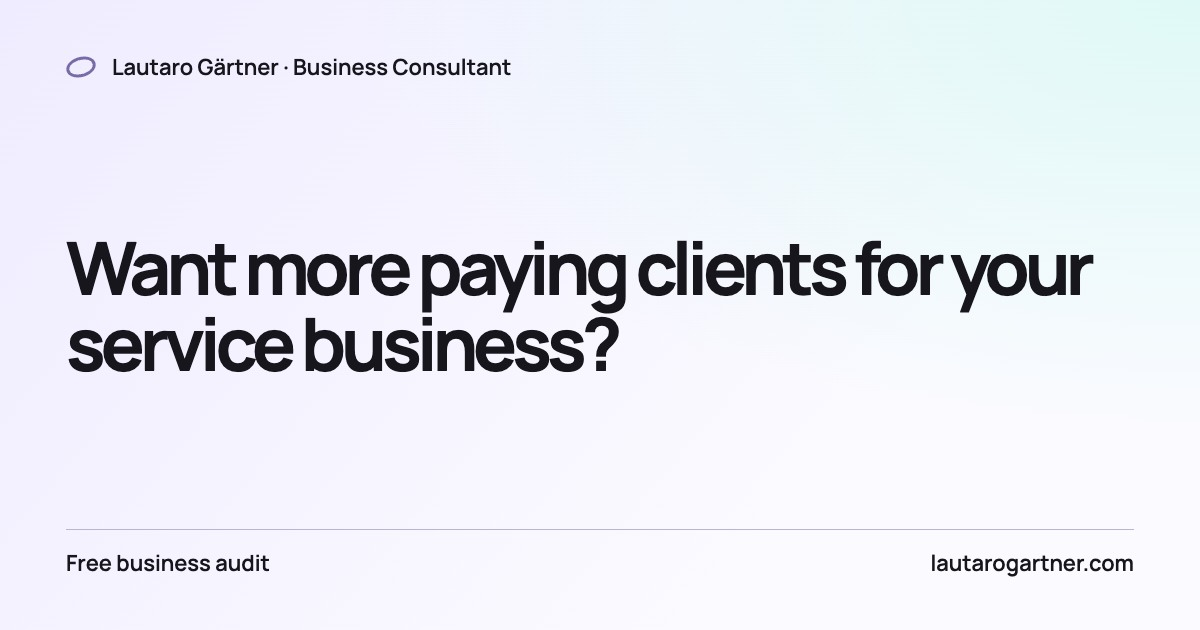
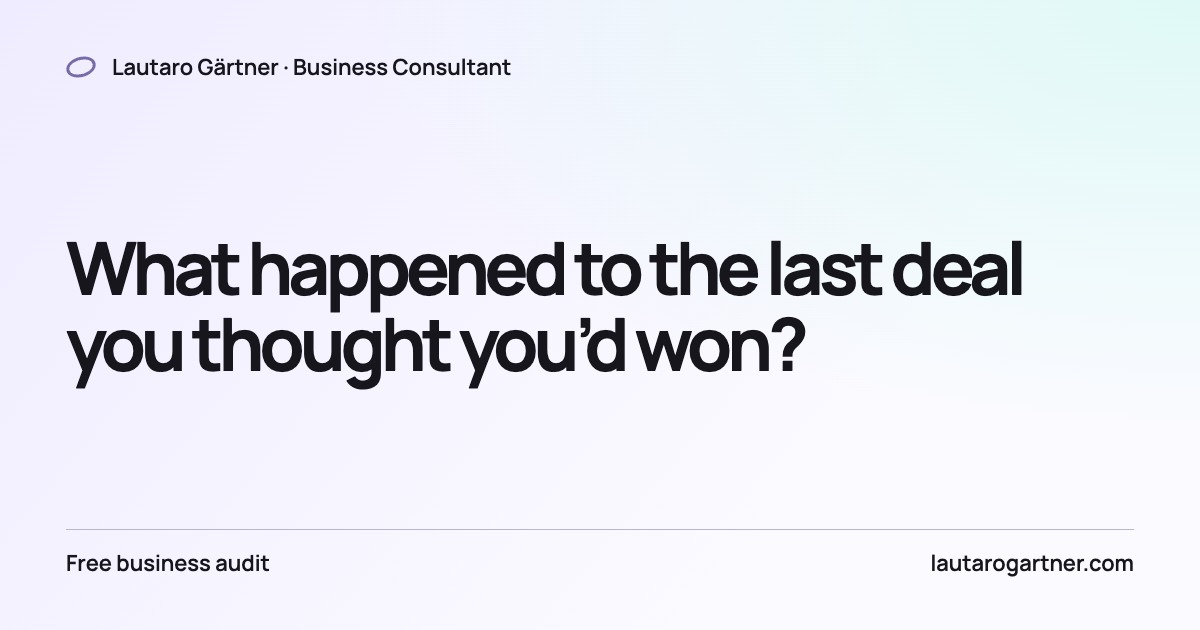
Float form menus, detect phone country, and broaden business copy

Changed region(s): [[0.0617, 0.3619, 0.925, 0.6333]]

diff --git a/public/application.js b/public/application.js
@@ -10,67 +10,150 @@
   }
   const fbclid = params.get('fbclid');
   const click = fbclid && /^[\w-]{1,400}$/.test(fbclid) ? 'fb.1.' + Date.now() + '.' + fbclid : undefined;
+  const country = form.elements.namedItem('phoneCountry');
+  const phone = form.elements.namedItem('tel');
+  const regionOptions = new Map([...form.querySelectorAll('#region-options [role=option]')].map(
+    option => [option.dataset.value, option]
+  ));
+  const countryToggle = form.querySelector('[data-country-toggle]');
+  const prefix = form.querySelector('[data-dial-code]');
+  let countryChosen = false;
+
+  function setCountry(code) {
+    const option = regionOptions.get(code);
+    if (!option) return;
+    regionOptions.get(country.value)?.setAttribute('aria-selected', 'false');
+    option.setAttribute('aria-selected', 'true');
+    country.value = code;
+    prefix.textContent = '+' + option.dataset.code;
+    countryToggle.querySelector('[data-flag]').textContent = option.firstElementChild.textContent;
+    countryToggle.setAttribute('aria-label', 'Change phone country, ' + option.dataset.name + ' +' + option.dataset.code);
+    validatePhone();
+  }
+
+  function browserCountry() {
+    // The time zone is more useful than the interface language when they differ.
+    const zone = Intl.DateTimeFormat().resolvedOptions().timeZone;
+    try {
+      // WebKit can return America/Argentina/Cordoba while its region list
+      // exposes America/Cordoba. Use the city only when it identifies one region.
+      const cityKey = name => {
+        const parts = name.split('/');
+        return parts[0] + '/' + parts.at(-1);
+      };
+      const alternate = [];
+      for (const code of regionOptions.keys()) {
+        const locale = new Intl.Locale('und-' + code);
+        const zones = locale.getTimeZones?.() ?? locale.timeZones ?? [];
+        if (zones.includes(zone)) return code;
+        if (zone.includes('/') && zones.some(name => cityKey(name) === cityKey(zone))) alternate.push(code);
+      }
+      if (alternate.length === 1) return alternate[0];
+      return new Intl.Locale(navigator.language).region;
+    } catch { return undefined; }
+  }
+
   for (const picker of form.querySelectorAll('[data-picker]')) {
     const input = picker.querySelector('[role=combobox]');
     const stored = picker.querySelector('input[type=hidden]');
-    const list = picker.querySelector('[role=listbox]');
+    const menu = picker.querySelector('[data-menu]');
+    const list = menu.querySelector('[role=listbox]');
     const options = [...list.children];
-    const empty = picker.querySelector('[data-no-match]');
+    const empty = menu.querySelector('[data-no-match]');
+    const region = stored === country;
+    const trigger = region ? countryToggle : picker.querySelector('[data-toggle]');
+    const anchor = region ? picker.parentElement : picker;
     let active = null;
     const matches = () => options.filter(option => !option.hidden);
+
+    function position() {
+      if (menu.hidden) return;
+      const box = anchor.getBoundingClientRect();
+      const viewport = window.visualViewport;
+      const top = viewport?.offsetTop ?? 0;
+      const height = viewport?.height ?? innerHeight;
+      const below = top + height - box.bottom - 8;
+      const above = box.top - top - 8;
+      const up = below < 200 && above > below;
+      menu.classList.toggle('opens-up', up);
+      menu.style.maxHeight = Math.max(0, Math.min(270, up ? above : below)) + 'px';
+    }
     function highlight(option) {
       active?.removeAttribute('data-active');
       active = option;
-      if (active) {
-        active.dataset.active = '';
-        input.setAttribute('aria-activedescendant',active.id);
-        active.scrollIntoView({block:'nearest'});
-      } else input.removeAttribute('aria-activedescendant');
+      if (!active) { input.removeAttribute('aria-activedescendant'); return; }
+      active.dataset.active = '';
+      input.setAttribute('aria-activedescendant', active.id);
+      const row = active.getBoundingClientRect(), bounds = list.getBoundingClientRect();
+      if (row.bottom > bounds.bottom) list.scrollTop += row.bottom - bounds.bottom;
+      else if (row.top < bounds.top) list.scrollTop -= bounds.top - row.top;
     }
     function open(filter) {
+      const wasClosed = menu.hidden;
       const query = filter ? input.value.trim().toLowerCase().replace(/[$,]/g,'') : '';
-      for (const option of options) option.hidden = !option.textContent.toLowerCase().replace(/[$,]/g,'').includes(query);
-      const visible = matches();
-      list.hidden = !visible.length;
-      empty.hidden = Boolean(visible.length);
-      input.setAttribute('aria-expanded',String(visible.length>0));
+      for (const option of options) option.hidden = !option.textContent.toLowerCase().replace(/[$,]/g,'').includes(query) && !(region && option.dataset.value.toLowerCase() === query);
+      const any = matches().length > 0;
+      list.hidden = !any;
+      empty.hidden = any;
+      menu.hidden = false;
+      input.setAttribute('aria-expanded','true');
+      if (region) trigger.setAttribute('aria-expanded','true');
+      position();
       highlight(null);
+      list.scrollTop = 0;
+      if (region && wasClosed) {
+        input.focus({preventScroll:true});
+        highlight(regionOptions.get(stored.value));
+      }
     }
     function close() {
-      list.hidden = true;
-      empty.hidden = true;
+      menu.hidden = true;
       input.setAttribute('aria-expanded','false');
+      if (region) trigger.setAttribute('aria-expanded','false');
       highlight(null);
     }
     function select(option) {
-      input.value = option.textContent;
-      stored.value = option.dataset.value;
-      for (const item of options) item.setAttribute('aria-selected',String(item===option));
-      input.setCustomValidity('');
-      close();
+      if (region) {
+        countryChosen = true;
+        setCountry(option.dataset.value);
+        close();
+        trigger.focus({preventScroll:true});
+      } else {
+        input.value = option.textContent;
+        stored.value = option.dataset.value;
+        for (const item of options) item.setAttribute('aria-selected',String(item===option));
+        input.setCustomValidity('');
+        close();
+      }
     }
-    input.addEventListener('click',()=>open(!stored.value && Boolean(input.value)));
+    if (!region) input.addEventListener('click',()=>open(!stored.value && Boolean(input.value)));
     input.addEventListener('input',()=>{
-      stored.value='';
-      options.forEach(option=>option.setAttribute('aria-selected','false'));
-      input.setCustomValidity('Choose one of the listed options.');
+      if (!region) {
+        stored.value='';
+        options.forEach(option=>option.setAttribute('aria-selected','false'));
+        input.setCustomValidity('Choose one of the listed options.');
+      }
       open(true);
-      const exact=matches().find(option=>option.textContent.toLowerCase()===input.value.trim().toLowerCase());
-      if(exact)select(exact);
+      if (!region) {
+        const exact=matches().find(option=>option.textContent.toLowerCase()===input.value.trim().toLowerCase());
+        if(exact)select(exact);
+      }
     });
-    picker.querySelector('[data-toggle]').addEventListener('click',()=>{
-      const expanded=input.getAttribute('aria-expanded')==='true';
-      input.focus();
-      if(expanded)close();else open(false);
+    trigger.addEventListener('click',()=>{
+      if(!menu.hidden){close();return;}
+      if(region)input.value=''; else input.focus();
+      open(false);
     });
     list.addEventListener('pointerdown',event=>event.preventDefault());
     list.addEventListener('click',event=>{
       const option=event.target.closest('[role=option]');
-      if(option){input.focus();select(option);}
+      if(option){input.focus({preventScroll:true});select(option);}
     });
     input.addEventListener('keydown',event=>{
-      if(event.key==='Escape'){close();return;}
-      if(event.key==='Enter' && !list.hidden){
+      if(event.key==='Escape' && !menu.hidden){
+        event.preventDefault(); close(); if(region)trigger.focus({preventScroll:true}); return;
+      }
+      if(event.key==='Enter' && !menu.hidden){
         event.preventDefault();
         const option=active || (matches().length===1 ? matches()[0] : null);
         if(option)select(option);
@@ -78,17 +161,20 @@
       }
       if(!['ArrowDown','ArrowUp'].includes(event.key))return;
       event.preventDefault();
-      if(list.hidden)open(false);
-      const items=matches();
-      const index=items.indexOf(active);
+      if(menu.hidden)open(false);
+      const items=matches(), index=items.indexOf(active);
       highlight(items[index<0 ? (event.key==='ArrowDown'?0:items.length-1) :
         Math.max(0, Math.min(items.length-1,index+(event.key==='ArrowDown'?1:-1)))]);
     });
     picker.addEventListener('focusout',event=>{
       if(picker.contains(event.relatedTarget))return;
-      if(!stored.value && !list.hidden && matches().length===1)select(matches()[0]);
+      if(!region && !stored.value && !menu.hidden && matches().length===1)select(matches()[0]);
       else close();
     });
+    document.addEventListener('pointerdown',event=>{if(!picker.contains(event.target))close();});
+    window.addEventListener('scroll',position,{passive:true});
+    window.addEventListener('resize',position);
+    window.visualViewport?.addEventListener('resize',position);
   }
   const fields = [...form.querySelectorAll('fieldset')];
   const back = form.querySelector('[data-back]'),
@@ -129,7 +215,9 @@
   async function ticket() {
     const response = await fetch('/api/application', { credentials: 'same-origin', cache: 'no-store' });
     if (!response.ok) throw Error('ticket');
-    return (await response.json()).token;
+    const data = await response.json();
+    if (!countryChosen && !phone.value.trim()) setCountry(data.country);
+    return data.token;
   }
   function getCookie(name) {
     return document.cookie
@@ -171,13 +259,6 @@
   window.addEventListener('lg:advertising-change', () => {
     if (!permitted()) window.fbq?.('consent', 'revoke');
   });
-  form.addEventListener(
-    'focusin',
-    () => {
-      if (!token) token = ticket().catch(() => null);
-    },
-    { once: true },
-  );
   back.addEventListener('click', () => {
     if (!busy) show(Math.max(0, step - 1), true);
   });
@@ -240,8 +321,6 @@
       back.disabled = false;
     }
   });
-  const phone = form.elements.namedItem('tel');
-  const country = form.elements.namedItem('phoneCountry');
   function parsedPhone() {
     return window.libphonenumber?.parsePhoneNumberFromString(phone.value.trim(), {
       defaultCountry: country.value || undefined, extract: false
@@ -254,8 +333,24 @@
       ? 'Choose a country code or enter the full number beginning with +.'
       : 'Enter a complete phone number for the selected country.');
   }
-  phone.addEventListener('input', validatePhone);
-  country.addEventListener('change', validatePhone);
+  phone.addEventListener('input', () => {
+    prefix.hidden = phone.value.trim().startsWith('+');
+    validatePhone();
+  });
+  phone.addEventListener('blur', () => {
+    if (!phone.value.trim().startsWith('+')) return;
+    const number = parsedPhone();
+    if (!number?.country || !number.isPossible()) return;
+    countryChosen = true;
+    setCountry(number.country);
+    phone.value = number.formatNational();
+    prefix.hidden = false;
+    validatePhone();
+  });
   if (application.done) confirmed(false);
-  else show(0, false);
+  else {
+    setCountry(browserCountry());
+    show(0, false);
+    token = ticket().catch(() => null);
+  }
 })();

diff --git a/public/consulting.css b/public/consulting.css
@@ -168,17 +168,39 @@
 .consult-submit span:last-child {font-size:20px; font-weight:500;}
 .consulting .consult-submit:is(:hover,:focus-visible) { background:#c8c2ff; }
 .consulting .consult-submit:disabled {opacity:.6;}
-.consult-phone {display:grid; grid-template-columns:minmax(0,.9fr) minmax(0,1.1fr); gap:8px;}
-.consulting .consult-phone :is(select,input), .app-picker [role=combobox] {
+.app-picker { position: relative; }
+.app-picker [role=combobox], .consult-phone {
   width:100%; min-width:0; height:48px; padding:10px 12px; background:white;
   color:var(--text); border:1px solid #b6afc6; border-radius:9px; font:inherit;
 }
-.app-picker {position:relative;}
-.app-picker [role=combobox] {padding-right:50px;}
-.app-picker [data-toggle] {position:absolute; top:0; right:0; height:48px; width:44px; border:0; background:transparent; color:inherit; font-size:20px; cursor:pointer;}
-.app-picker [role=listbox] {padding:4px; margin:5px 0 0; max-height:225px; overflow:auto; list-style:none; border:1px solid #b6afc6; border-radius:9px; background:white;}
-.app-picker [role=option] {margin:0; padding:9px 10px; cursor:pointer; border-radius:5px;}
-.app-picker [role=option]:is(:hover,[data-active]) {background:#eeebff;}
-.app-picker [role=option][aria-selected=true] {font-weight:750;}
-.app-picker [data-no-match] {display:block; margin-top:8px; color:var(--muted);}
-@media(max-width:390px){.consult-phone{grid-template-columns:1fr;}}
+.app-picker > [role=combobox] { padding-right:50px; }
+.app-picker [data-toggle] {
+  position:absolute; top:0; right:0; height:48px; width:44px;
+  border:0; background:transparent; color:inherit; font-size:20px; cursor:pointer;
+}
+.picker-menu {
+  position:absolute; z-index:8; top:calc(100% + 4px); inset-inline:0;
+  display:flex; flex-direction:column; padding:4px; background:white;
+  border:1px solid #b6afc6; border-radius:9px; box-shadow:0 8px 24px #28293826;
+}
+.picker-menu.opens-up { top:auto; bottom:calc(100% + 4px); }
+.app-picker [role=listbox] { min-height:0; overflow-y:auto; overscroll-behavior:contain; list-style:none; padding:0; margin:0; }
+.app-picker [role=option] { margin:0; padding:9px 10px; cursor:pointer; border-radius:5px; }
+.app-picker [role=option]:is(:hover,[data-active]) { background:#eeebff; }
+.app-picker [role=option][aria-selected=true] { font-weight:750; }
+.app-picker [data-no-match] { padding:8px; color:var(--muted); }
+.consult-phone { display:flex; align-items:center; position:relative; padding:0; }
+.consult-phone:focus-within { outline:2px solid var(--accent); outline-offset:2px; }
+.consult-phone .phone-region { position:static; align-self:stretch; }
+.consult-phone [data-country-toggle] {
+  display:flex; align-items:center; gap:6px; height:100%; min-width:52px;
+  padding:0 10px; border:0; border-right:1px solid var(--line); border-radius:8px 0 0 8px;
+  font:inherit; color:inherit; background:transparent; cursor:pointer;
+}
+.consult-phone [data-dial-code] { font-variant-numeric:tabular-nums; margin-inline-start:9px; white-space:nowrap; }
+.consulting .consult-phone input[type=tel] {
+  flex:1; width:0; min-width:0; height:100%; margin:0; padding:0 8px;
+  border:0; border-radius:8px; background:transparent; font:inherit; color:inherit; outline:0; box-shadow:none;
+}
+.phone-region .picker-menu { width:min(100%,20rem); }
+.phone-region input[role=combobox] { flex:none; height:40px; margin-bottom:4px; }

diff --git a/docs/consulting-campaign.md b/docs/consulting-campaign.md
@@ -12,7 +12,7 @@ You sent the quote. You followed up. Then silence.
 
 **Primary text**
 
-Want more paying clients for your service business? Bring me one job you expected to win. We’ll look at what the buyer asked for, what you offered, and where the conversation stopped. After we speak, I’ll send you a free audit with the first change I’d test. Use it yourself or ask me to help you implement it.
+Bring me the last deal you thought you’d won. We’ll look at what the buyer asked for, what you offered, and where the conversation stopped. After we speak, I’ll send you a free audit with the first change I’d test. Use it yourself or ask me to help you implement it.
 
 **Button**
 
@@ -28,7 +28,7 @@ Learn more
 
 **Facebook Page introduction**
 
-I’m Lautaro Gärtner, a business consultant for service businesses. I help owners figure out where they’re losing business and what to change first.
+I’m Lautaro Gärtner, a business consultant. I help owners figure out where they’re losing business and what to change first.
 
 ## Recording the walkthrough
 
